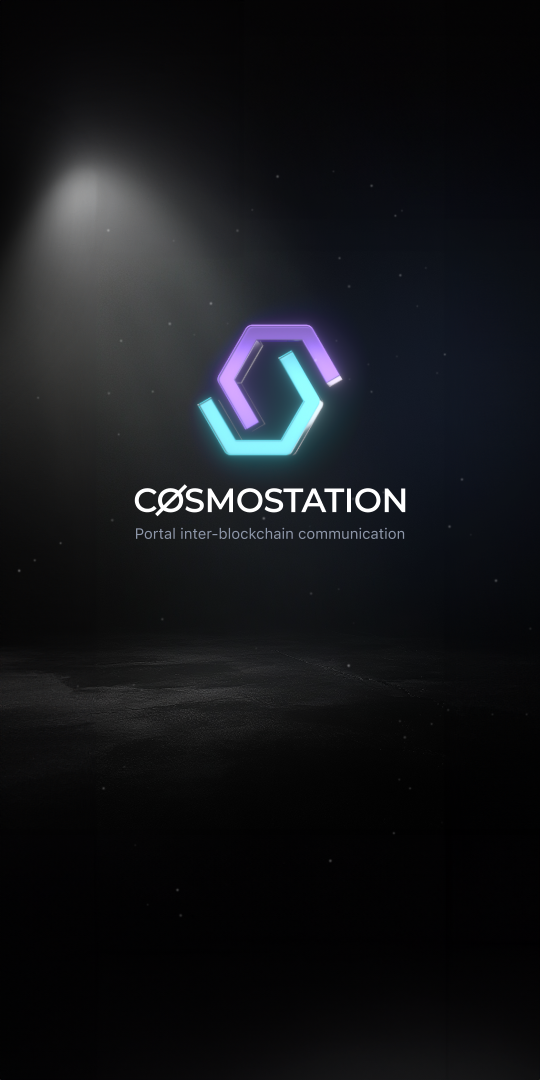
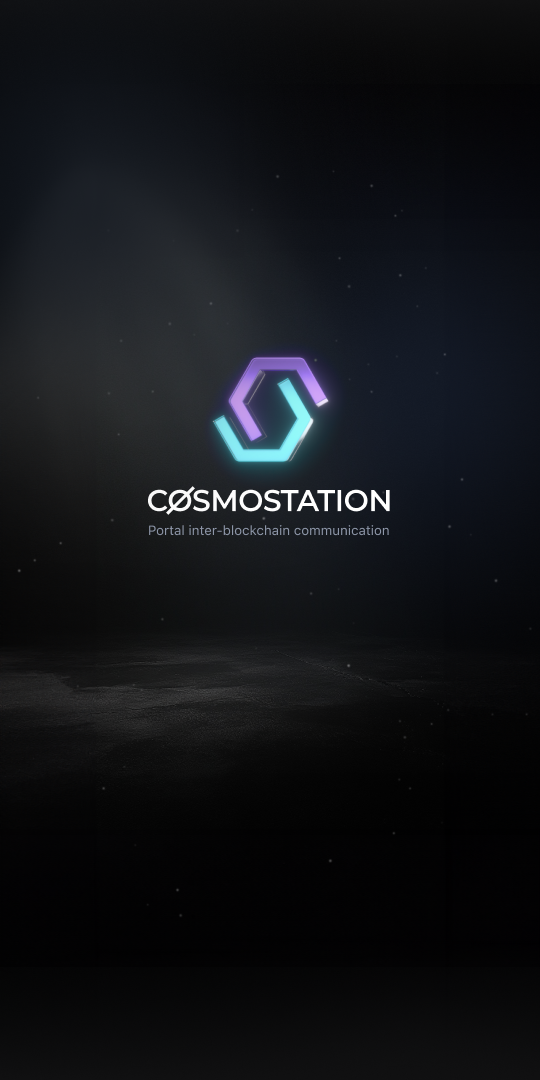
style: 백그라운드 스타일 변경

Changed region(s): [[0.237, 0.275, 0.7704, 0.5194], [0.0296, 0.1222, 0.3852, 0.3361]]

diff --git a/src/components/Wrapper/components/Lock/styled.tsx b/src/components/Wrapper/components/Lock/styled.tsx
@@ -3,24 +3,25 @@ import { styled } from '@mui/material/styles';
 import OutlinedInput from '../../../common/OutlinedInput';
 import TextButton from '../../../common/TextButton';
 
-import backgroungImg from '@/assets/images/backgroundImage/background.png';
+import backgroundImg from '@/assets/images/backgroundImage/background.png';
 
-export const FormContainer = styled('form')(({ theme }) => ({
+export const FormContainer = styled('form')({
   display: 'flex',
   flexDirection: 'column',
   height: '100%',
   width: '100%',
   padding: '1.2rem',
-
   boxSizing: 'border-box',
 
-  backgroundImage: `url(${backgroungImg})`,
-  backgroundSize: 'cover',
+  backgroundImage: `url(${backgroundImg})`,
+  backgroundSize: 'auto',
   backgroundRepeat: 'no-repeat',
   backgroundPosition: 'center',
-  backgroundColor: theme.palette.common.black,
+  backgroundColor: '#101011',
+
+  overflow: 'hidden',
   position: 'relative',
-}));
+});
 
 export const StyledInputContainer = styled('div')({
   position: 'absolute',

diff --git a/src/pages/account/initial/-styled.tsx b/src/pages/account/initial/-styled.tsx
@@ -2,23 +2,25 @@ import { styled } from '@mui/material/styles';
 
 import CheckBoxTextButton from '@/components/common/CheckBoxTextButton';
 
-import backgroungImg from '@/assets/images/backgroundImage/background.png';
+import backgroundImg from '@/assets/images/backgroundImage/background.png';
 
-export const Container = styled('div')(({ theme }) => ({
+export const Container = styled('div')({
   display: 'flex',
   flexDirection: 'column',
   height: '100%',
   width: '100%',
   padding: '1.2rem',
-
   boxSizing: 'border-box',
 
-  backgroundImage: `url(${backgroungImg})`,
-  backgroundSize: 'cover',
+  backgroundImage: `url(${backgroundImg})`,
+  backgroundSize: 'auto',
   backgroundRepeat: 'no-repeat',
   backgroundPosition: 'center',
-  backgroundColor: theme.palette.common.black,
-}));
+  backgroundColor: '#101011',
+
+  overflow: 'hidden',
+  position: 'relative',
+});
 
 export const TermsContainer = styled('div')({
   display: 'flex',

diff --git a/src/components/Wrapper/components/Init/styled.tsx b/src/components/Wrapper/components/Init/styled.tsx
@@ -1,20 +1,21 @@
 import { styled } from '@mui/material/styles';
 
-import backgroungImg from '@/assets/images/backgroundImage/background.png';
+import backgroundImg from '@/assets/images/backgroundImage/background.png';
 
-export const Splash = styled('div')(({ theme }) => ({
+export const Splash = styled('div')({
   display: 'flex',
   flexDirection: 'column',
   height: '100%',
   width: '100%',
   padding: '1.2rem',
-
   boxSizing: 'border-box',
 
-  backgroundImage: `url(${backgroungImg})`,
-  backgroundSize: 'cover',
+  backgroundImage: `url(${backgroundImg})`,
+  backgroundSize: 'auto',
   backgroundRepeat: 'no-repeat',
   backgroundPosition: 'center',
-  backgroundColor: theme.palette.common.black,
+  backgroundColor: '#101011',
+
+  overflow: 'hidden',
   position: 'relative',
-}));
+});
